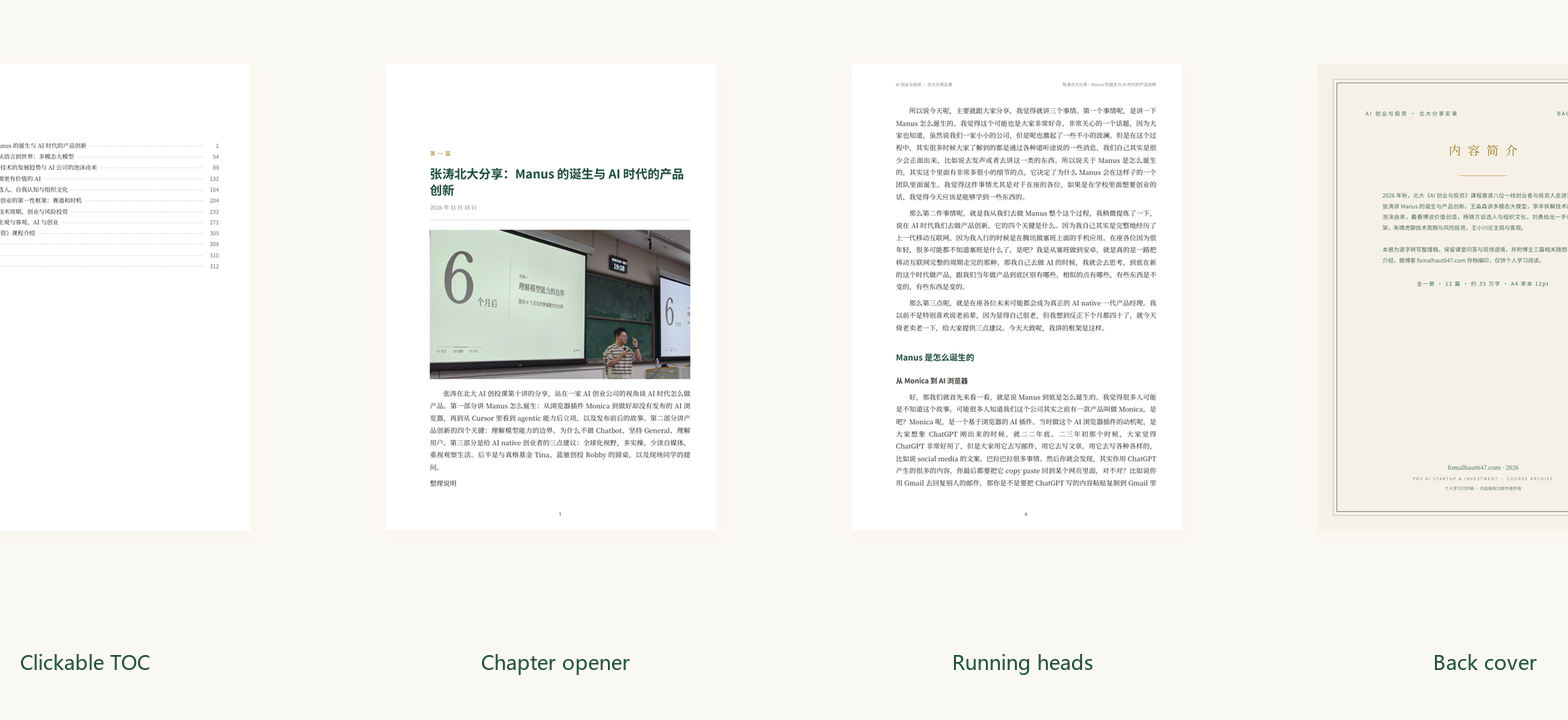
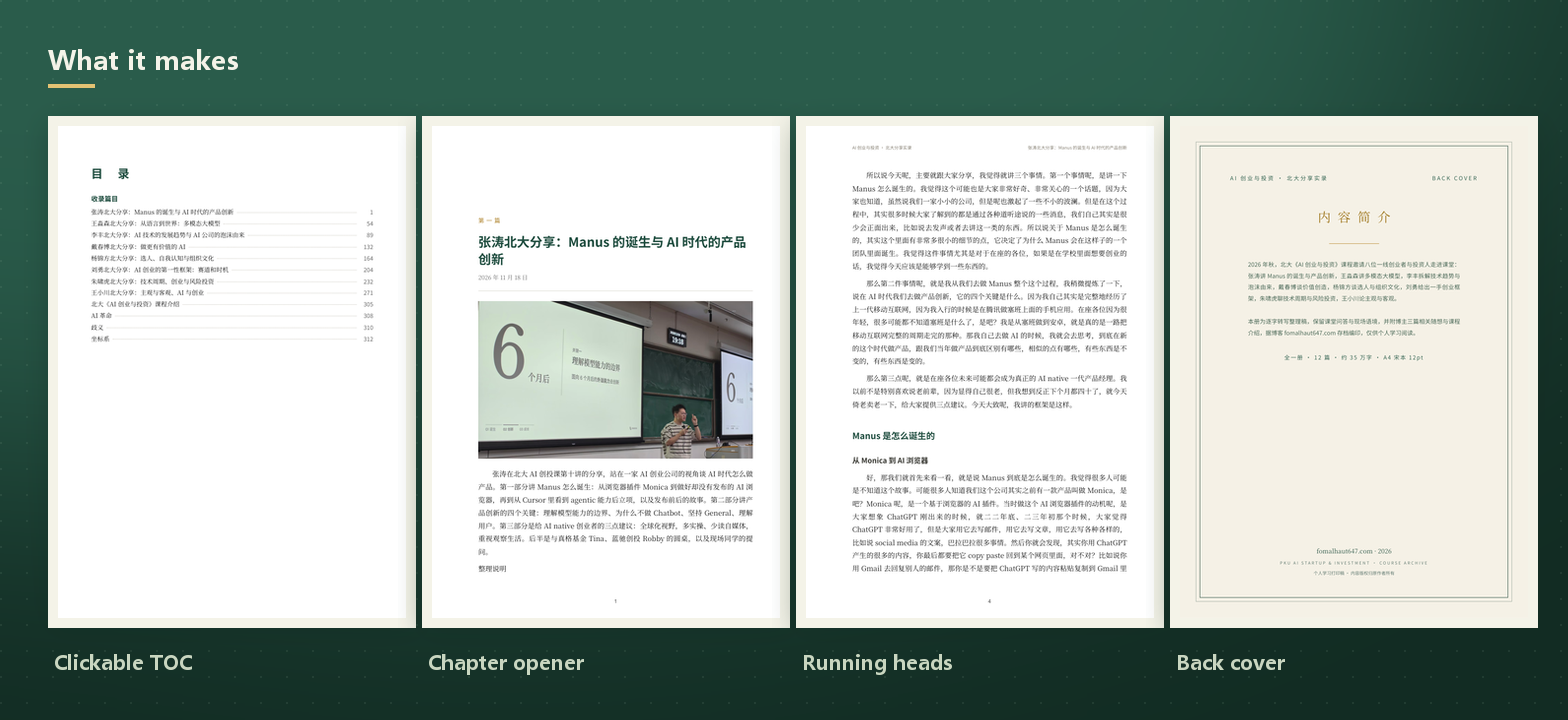
assets v2: dark editorial hero + page showcase + pipeline diagram
Project-native visual system (deep green / cream / amber), real book renders
staggered with cream mounting and shadows, dot-grid texture, ghost wordmark.

diff --git a/assets/make_images.py b/assets/make_images.py
@@ -1,14 +1,39 @@
 # -*- coding: utf-8 -*-
-"""Paperwright README 图像合成：hero + pages grid（PIL，从真实成书渲染页拼装）"""
+"""Paperwright README 图像合成 v2：深绿编辑风 hero ＋ 四联真页 ＋ 暗色产线图"""
 from PIL import Image, ImageDraw, ImageFont, ImageFilter
 import os
 
 SRC = r'D:\Projects\fomalhaut647-print\output'
 OUT = os.path.dirname(os.path.abspath(__file__))
-PAPER = (245, 241, 230)     # #f5f1e6
-INK = (32, 79, 64)          # #204f40
-AMBER = (176, 133, 46)      # #b0852e
-SHADOW = (60, 60, 55, 60)
+
+INK_BG1 = (42, 92, 75)
+INK_BG2 = (18, 44, 35)
+CREAM = (244, 243, 232)
+CREAM_DIM = (201, 214, 192)
+AMBER = (227, 194, 115)
+DOT = (164, 198, 172)
+
+def f(size, bold=False):
+    p = r'C:\Windows\Fonts\msyhbd.ttc' if bold else r'C:\Windows\Fonts\msyh.ttc'
+    return ImageFont.truetype(p, size)
+
+def dark_bg(w, h):
+    base = Image.new('RGB', (w, h), INK_BG2)
+    glow = Image.new('L', (w, h), 0)
+    gd = ImageDraw.Draw(glow)
+    gd.ellipse([-w * 0.3, -h * 0.55, w * 0.95, h * 0.7], fill=255)
+    glow = glow.filter(ImageFilter.GaussianBlur(min(w, h) // 5))
+    light = Image.new('RGB', (w, h), INK_BG1)
+    return Image.composite(light, base, glow)
+
+def dot_grid(im, alpha=26, step=26):
+    ov = Image.new('RGBA', im.size, (0, 0, 0, 0))
+    d = ImageDraw.Draw(ov)
+    for y in range(0, im.height, step):
+        for x in range(0, im.width, step):
+            d.ellipse([x, y, x + 1.4, y + 1.4], fill=DOT + (alpha,))
+    im.paste(Image.alpha_composite(im.convert('RGBA'), ov).convert('RGB'), (0, 0))
+    return im
 
 def load(name):
     return Image.open(os.path.join(SRC, f'hd-{name}.png')).convert('RGB')
@@ -17,90 +42,97 @@ def fit_h(im, h):
     w = int(im.width * h / im.height)
     return im.resize((w, h), Image.LANCZOS)
 
-def paste_with_shadow(base, im, x, y):
-    sh = Image.new('RGBA', (im.width + 24, im.height + 24), (0, 0, 0, 0))
+def paste_page(base, im, x, y, rot=0):
+    pad = 10
+    card = Image.new('RGB', (im.width + pad * 2, im.height + pad * 2), CREAM)
+    card.paste(im, (pad, pad))
+    if rot:
+        card = card.rotate(rot, expand=True, resample=Image.BICUBIC)
+    card_rgba = card.convert('RGBA')
+    sh = Image.new('RGBA', (card.width + 60, card.height + 60), (0, 0, 0, 0))
     sd = ImageDraw.Draw(sh)
-    sd.rectangle([10, 14, im.width + 14, im.height + 18], fill=SHADOW)
-    sh = sh.filter(ImageFilter.GaussianBlur(8))
-    base.paste(Image.new('RGB', sh.size, PAPER), (x - 10, y - 10), sh)
-    base.paste(im, (x, y))
-    return im.width, im.height
+    sd.rectangle([26, 34, card.width + 26, card.height + 26], fill=(0, 0, 0, 110))
+    sh = sh.filter(ImageFilter.GaussianBlur(14))
+    px, py = x - 24, y - 24
+    patch = base.crop((max(0, px), max(0, py), min(base.width, px + sh.width), min(base.height, py + sh.height)))
+    base.paste(Image.new('RGB', patch.size, INK_BG2), (max(0, px), max(0, py)), sh.crop((max(0, -px), max(0, -py), max(0, -px) + patch.width, max(0, -py) + patch.height)))
+    base.paste(card_rgba, (x, y), card_rgba)
+    return card.width, card.height
 
-def f(size, bold=False):
-    p = r'C:\Windows\Fonts\msyhbd.ttc' if bold else r'C:\Windows\Fonts\msyh.ttc'
-    return ImageFont.truetype(p, size)
-
-# ---------- hero.png 1568×688 ----------
+# ================= hero.png 1568×688 =================
 W, H = 1568, 688
-hero = Image.new('RGB', (W, H), PAPER)
+hero = dark_bg(W, H)
+hero = dot_grid(hero)
 d = ImageDraw.Draw(hero)
-d.rectangle([0, H - 6, W, H], fill=AMBER)
-# 左栏：wordmark＋封面实拍
-d.text((84, 56), 'Paperwright 页匠', font=f(44, True), fill=INK)
-d.text((88, 138), 'crawl · clean · bind · render · QA', font=f(18), fill=(110, 120, 105))
-cover = fit_h(load('cover'), 470)
-paste_with_shadow(hero, cover, 90, 176)
-# 右栏：标题＋两页实证
-d.text((520, 72), 'From a web archive,', font=f(30), fill=(90, 107, 96))
-d.text((520, 118), 'to a book you can hold.', font=f(30, True), fill=INK)
-d.rectangle([524, 174, 524 + 56, 177], fill=AMBER)
-ope = fit_h(load('opener'), 400)
-run = fit_h(load('running'), 400)
-paste_with_shadow(hero, ope, 520, 216)
-paste_with_shadow(hero, run, 520 + ope.width + 60, 216)
-d.text((520 + 40, H - 66), 'real output · 354-page PKU course transcripts', font=f(17), fill=(120, 128, 112))
+d.text((W - 640, H - 210), 'PAPERWRIGHT', font=f(64, True), fill=INK_BG2, stroke_width=1, stroke_fill=(96, 130, 108))
+paste_page(hero, fit_h(load('cover'), 468), 596, 96, rot=-2)
+paste_page(hero, fit_h(load('opener'), 468), 956, 64, rot=1.5)
+paste_page(hero, fit_h(load('running'), 468), 1296, 118, rot=-1)
+d.text((84, 96), 'Paperwright 页匠', font=f(58, True), fill=CREAM)
+d.rectangle([88, 196, 88 + 64, 200], fill=AMBER)
+d.text((84, 222), 'From a web archive,', font=f(26), fill=CREAM_DIM)
+d.text((84, 264), 'to a book you can hold.', font=f(26, True), fill=CREAM)
+d.text((84, 356), '4 books', font=f(30, True), fill=AMBER)
+d.text((84, 404), '2,801+ pages produced', font=f(17), fill=CREAM_DIM)
+d.text((84, 434), '477-article archive bound in 6 volumes', font=f(17), fill=CREAM_DIM)
+d.text((84, H - 96), '0 RECON → 1 CRAWL → 2 CLEAN → 3 BIND → 4 RENDER → 5 PAGE-MAP → 6 MERGE → 7 QA', font=f(15, True), fill=(154, 178, 148))
+d.text((84, H - 60), 'real output · 354-page PKU course transcripts', font=f(15), fill=(140, 160, 138))
 hero.save(os.path.join(OUT, 'hero.png'))
 print('hero.png', hero.size)
 
-# ---------- pages.png 1568×720：四联真书页 ----------
+# ================= pages.png 1568×720 =================
 W2, H2 = 1568, 720
-pg = Image.new('RGB', (W2, H2), (250, 248, 242))
+pg = dark_bg(W2, H2)
+pg = dot_grid(pg)
 d2 = ImageDraw.Draw(pg)
+d2.text((48, 42), 'What it makes', font=f(26, True), fill=CREAM)
+d2.rectangle([48, 84, 94, 87], fill=AMBER)
 panels = [('toc', 'Clickable TOC'), ('opener', 'Chapter opener'), ('running', 'Running heads'), ('back', 'Back cover')]
-pw = 330
-gap = (W2 - pw * 4 - 80) // 3 + 80
-x = (W2 - (pw * 4 + gap * 3)) // 2
+pw2 = 348
+gap2 = (W2 - 96 - pw2 * 4) // 3
+x = 48
 for name, cap in panels:
-    im = fit_h(load(name), 560)
-    if im.width > pw:
-        im = im.resize((pw, int(im.height * pw / im.width)), Image.LANCZOS)
-    xx = x + (pw - im.width) // 2
-    paste_with_shadow(pg, im, xx, 64)
-    d2.text((x + pw // 2 - len(cap) * 5, 648), cap, font=f(20), fill=INK)
-    x += pw + gap
+    im = fit_h(load(name), 500)
+    if im.width > pw2:
+        im = im.resize((pw2, int(im.height * pw2 / im.width)), Image.LANCZOS)
+    paste_page(pg, im, x + (pw2 - im.width) // 2, 116)
+    d2.text((x + 6, 648), cap, font=f(20, True), fill=CREAM_DIM)
+    x += pw2 + gap2
 pg.save(os.path.join(OUT, 'pages.png'))
 print('pages.png', pg.size)
 
-# ---------- pipeline.svg（项目原生视觉：纸色底/墨绿/杏金） ----------
+# ================= pipeline.svg =================
 phases = [
     ('0', 'RECON', 'index · inventory · scope sign-off'),
     ('1', 'CRAWL', 'concurrent fetch · stealth recipes'),
     ('2', 'CLEAN', 'DOM → print fragments · images'),
     ('3', 'BIND', 'front / body / --paged / --back'),
     ('4', 'RENDER', 'Chromium native or paged.js'),
-    ('5', 'PAGE-MAP', 'two-pass aux links / DOM-measured'),
+    ('5', 'PAGE-MAP', 'two-pass aux / DOM-measured'),
     ('6', 'MERGE', 'pdf-lib + outline · clickable TOC'),
     ('7', 'QA', 'edge inspection · text layer'),
 ]
 ph = ['<svg xmlns="http://www.w3.org/2000/svg" width="1568" height="300" viewBox="0 0 1568 300" font-family="Segoe UI, sans-serif">',
-      '<rect width="1568" height="300" fill="#f5f1e6"/>',
-      '<text x="40" y="52" font-size="26" font-weight="700" fill="#204f40">The pipeline</text>',
-      '<rect x="40" y="64" width="46" height="3" fill="#b0852e"/>']
+      '<defs><radialGradient id="g" cx="18%" cy="10%" r="120%">',
+      '<stop offset="0%" stop-color="#2a5c4b"/><stop offset="55%" stop-color="#204f40"/><stop offset="100%" stop-color="#122c23"/>',
+      '</radialGradient></defs>',
+      '<rect width="1568" height="300" fill="url(#g)"/>',
+      '<text x="40" y="52" font-size="26" font-weight="700" fill="#f4f3e8">The pipeline</text>',
+      '<rect x="40" y="64" width="46" height="3" fill="#e3c273"/>']
 bw, bh, gap2, x2, y2 = 168, 118, 16, 40, 104
 for i, (num, name2, desc) in enumerate(phases):
     px = x2 + i * (bw + gap2)
-    ph.append(f'<rect x="{px}" y="{y2}" width="{bw}" height="{bh}" rx="10" fill="#ffffff" stroke="#204f4055" stroke-width="1.2"/>')
-    ph.append(f'<circle cx="{px + 26}" cy="{y2 + 28}" r="15" fill="#204f40"/>')
-    ph.append(f'<text x="{px + 26}" y="{y2 + 33}" font-size="15" fill="#f5f1e6" text-anchor="middle" font-weight="700">{num}</text>')
-    ph.append(f'<text x="{px + 50}" y="{y2 + 33}" font-size="16" font-weight="700" fill="#204f40">{name2}</text>')
-    words = desc.split(' · ')
-    for j, wd in enumerate(words):
-        ph.append(f'<text x="{px + 14}" y="{y2 + 62 + j * 19}" font-size="11.5" fill="#5a6b60">{wd}</text>')
+    ph.append(f'<rect x="{px}" y="{y2}" width="{bw}" height="{bh}" rx="10" fill="#f4f3e814" stroke="#f4f3e83d" stroke-width="1"/>')
+    ph.append(f'<circle cx="{px + 26}" cy="{y2 + 28}" r="15" fill="none" stroke="#e3c273" stroke-width="1.2"/>')
+    ph.append(f'<text x="{px + 26}" y="{y2 + 33}" font-size="15" fill="#e3c273" text-anchor="middle" font-weight="700">{num}</text>')
+    ph.append(f'<text x="{px + 50}" y="{y2 + 33}" font-size="16" font-weight="700" fill="#f4f3e8">{name2}</text>')
+    for j, wd in enumerate(desc.split(' · ')):
+        ph.append(f'<text x="{px + 14}" y="{y2 + 62 + j * 19}" font-size="11.5" fill="#a9bfa5">{wd}</text>')
     if i < len(phases) - 1:
         ax = px + bw + 2
         ay = y2 + bh // 2
-        ph.append(f'<path d="M{ax},{ay - 5} l8,5 l-8,5" fill="none" stroke="#b0852e" stroke-width="2"/>')
-        ph.append(f'<line x1="{ax - 6}" y1="{ay}" x2="{ax + 7}" y2="{ay}" stroke="#b0852e" stroke-width="2"/>')
+        ph.append(f'<line x1="{ax - 4}" y1="{ay}" x2="{ax + 8}" y2="{ay}" stroke="#e3c273" stroke-width="2"/>')
+        ph.append(f'<path d="M{ax + 8},{ay - 5} l8,5 l-8,5" fill="none" stroke="#e3c273" stroke-width="2"/>')
 ph.append('</svg>')
 open(os.path.join(OUT, 'pipeline.svg'), 'w', encoding='utf-8').write('\n'.join(ph))
 print('pipeline.svg', len(ph), 'elements')
